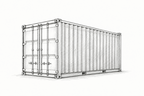
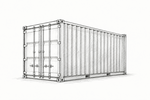
style(lab-builder): รูปในช่องพิมพ์หายตอนกดเข้าไป + ขยาย Create lab และรูปให้ใหญ่ขึ้น
ทำไม: Pete ลองแล้ว — กดเข้าไปพิมพ์รูปยังค้างบังข้อความ และ Create lab รูปเล็กไป

ทำอย่างไร:
- IllustratedTextarea ซ่อนรูปตอน focus (เดิมซ่อนเมื่อมีข้อความแล้วเท่านั้น) ขอบเป็นสีฟ้าตอน focus
- Create lab กว้าง 1000 → 1120 ตัวอักษร 13 → 14 ช่อง Description / ช่องลาก .tar สูงขึ้น รูปใหญ่ขึ้นราว 1.5 เท่า
- export รูปใหม่จากต้นฉบับที่ 2 เท่าของขนาดที่แสดงใหม่ (ไม่ขยายจากไฟล์ที่ย่อไว้แล้ว ภาพจะแตก)

diff --git a/web-portal/frontend/src/components/lab-builder/DocumentModal.tsx b/web-portal/frontend/src/components/lab-builder/DocumentModal.tsx
@@ -1,40 +1,47 @@
 import { useEffect, useState } from 'react';
 import GradientModal from './GradientModal';
 import PrimaryButton from './PrimaryButton';
-import { FileDrop, FormNote, inputBox } from './fields';
+import { FileDrop, FormNote, IconInput, inputBox } from './fields';
 import { BookIcon } from './icons';
 import { labService } from '../../services/lab';
 import type { LabSummary } from '../../services/lab';
+import { courseDocumentService } from '../../services/courseDocument';
 import { apiErrorMessage } from '../../services/labImage';
 
+// ค่าใน select ของตัวเลือก "ไม่ผูก lab" (id ของ lab เป็น uuid ไม่มีทางชน)
+const COURSE_DOC = '';
+
 /**
- * Document adding — แนบ PDF ให้ lab (เอกสารของวิชาคือเอกสารของแต่ละ lab)
- * ชื่อที่นักศึกษาเห็นในการ์ด Documents คือชื่อ lab ไฟล์ใหม่แทนไฟล์เดิมของ lab นั้น
+ * Document adding — รองรับสองแบบ (Pete ขอ)
+ * - ไม่ผูก lab: เอกสารรวมของวิชา ตั้งชื่อเองได้ (ว่าง = ชื่อไฟล์) มีกี่ไฟล์ก็ได้
+ * - ผูก lab: แนบเป็นเอกสารของ lab นั้น ชื่อที่เห็นคือชื่อ lab ไฟล์ใหม่แทนไฟล์เดิม
  */
-export default function DocumentModal({ open, onClose, onUploaded, labs }: { open: boolean; onClose: () => void; onUploaded: () => void; labs: LabSummary[] }) {
-  const [labId, setLabId] = useState('');
+export default function DocumentModal({ open, onClose, onUploaded, labs, courseId }: { open: boolean; onClose: () => void; onUploaded: () => void; labs: LabSummary[]; courseId: string }) {
+  const [labId, setLabId] = useState(COURSE_DOC);
+  const [name, setName] = useState('');
   const [file, setFile] = useState<File | null>(null);
   const [busy, setBusy] = useState(false);
   const [error, setError] = useState<string | null>(null);
 
   useEffect(() => {
     if (open) {
-      setLabId(labs[0]?.id ?? '');
+      setLabId(COURSE_DOC);
+      setName('');
       setFile(null);
       setError(null);
     }
-  }, [open, labs]);
+  }, [open]);
 
   const selected = labs.find((lab) => lab.id === labId);
 
   const approve = async () => {
-    if (!labId) return setError('เลือก lab ก่อน');
     if (!file) return setError('เลือกไฟล์ PDF ก่อน');
     if (!file.name.toLowerCase().endsWith('.pdf')) return setError('เอกสารต้องเป็นไฟล์ PDF');
     setBusy(true);
     setError(null);
     try {
-      await labService.uploadDoc(labId, file);
+      if (labId === COURSE_DOC) await courseDocumentService.upload(courseId, file, name.trim());
+      else await labService.uploadDoc(labId, file);
       onUploaded();
       onClose();
     } catch (e) {
@@ -47,11 +54,11 @@ export default function DocumentModal({ open, onClose, onUploaded, labs }: { ope
   return (
     <GradientModal open={open} onClose={busy ? () => {} : onClose} icon="/lab-builder/book.png" title="Document adding">
       <div style={{ padding: '28px 74px 36px', display: 'flex', flexDirection: 'column', gap: 6, fontSize: 13 }}>
-        <span style={{ paddingLeft: 6 }}>Lab</span>
+        <span style={{ paddingLeft: 6 }}>Attach to</span>
         <div style={{ ...inputBox, display: 'flex', alignItems: 'center', gap: 30, padding: '0 18px' }}>
           <BookIcon />
           <select value={labId} onChange={(e) => setLabId(e.target.value)} style={{ flex: 1, minWidth: 0, border: 0, outline: 'none', fontFamily: 'inherit', fontSize: 13, background: 'transparent', cursor: 'pointer' }}>
-            {labs.length === 0 && <option value="">ยังไม่มี lab — สร้าง lab ก่อน</option>}
+            <option value={COURSE_DOC}>Course document (no lab)</option>
             {labs.map((lab) => (
               <option key={lab.id} value={lab.id}>
                 Lab {lab.orderNo} : {lab.title}
@@ -59,6 +66,12 @@ export default function DocumentModal({ open, onClose, onUploaded, labs }: { ope
             ))}
           </select>
         </div>
+        {labId === COURSE_DOC && (
+          <>
+            <span style={{ paddingLeft: 6, marginTop: 14 }}>Document name</span>
+            <IconInput icon={<BookIcon />} value={name} onChange={setName} placeholder={file ? file.name.replace(/\.pdf$/i, '') : 'Document name'} />
+          </>
+        )}
         <div style={{ marginTop: 22 }}>
           <FileDrop file={file} onFile={setFile} accept="application/pdf,.pdf" image="/lab-builder/paste.png" imageWidth={72} hint="Drop PDF here" height={246} />
         </div>

diff --git a/web-portal/frontend/src/components/lab-builder/CreateLabModal.tsx b/web-portal/frontend/src/components/lab-builder/CreateLabModal.tsx
@@ -116,8 +116,8 @@ export default function CreateLabModal({ open, onClose, onCreated, courseId, cou
   };
 
   return (
-    <GradientModal open={open} onClose={busy ? () => {} : onClose} icon="/lab-builder/lab-container.png" iconWidth={46} title="Virtual Lab Builder" maxWidth={1000}>
-      <div style={{ padding: '28px 74px 48px', display: 'grid', gridTemplateColumns: 'minmax(0,1fr) minmax(0,1fr)', gap: 118, fontSize: 13 }}>
+    <GradientModal open={open} onClose={busy ? () => {} : onClose} icon="/lab-builder/lab-container.png" iconWidth={50} title="Virtual Lab Builder" maxWidth={1120}>
+      <div style={{ padding: '32px 74px 52px', display: 'grid', gridTemplateColumns: 'minmax(0,1fr) minmax(0,1fr)', gap: 96, fontSize: 14 }}>
         <div style={{ display: 'flex', flexDirection: 'column', gap: 14 }}>
           <label style={label}>
             <span style={{ paddingLeft: 6 }}>Lab name</span>
@@ -126,7 +126,7 @@ export default function CreateLabModal({ open, onClose, onCreated, courseId, cou
 
           <div style={label}>
             <span style={{ paddingLeft: 6 }}>Description</span>
-            <IllustratedTextarea value={form.description} onChange={(v) => set('description', v)} image="/lab-builder/lab-draw.png" imageWidth={70} hint="Discover something new..." height={126} hintSize={10} />
+            <IllustratedTextarea value={form.description} onChange={(v) => set('description', v)} image="/lab-builder/lab-draw.png" imageWidth={104} hint="Discover something new..." height={180} hintSize={12} />
           </div>
 
           <div style={{ display: 'grid', gridTemplateColumns: 'minmax(0,1fr) minmax(0,1fr)', gap: 16, marginTop: 6 }}>
@@ -143,8 +143,8 @@ export default function CreateLabModal({ open, onClose, onCreated, courseId, cou
 
         <div style={{ display: 'flex', flexDirection: 'column', gap: 6 }}>
           <span>Lab image</span>
-          <FileDrop file={form.image} onFile={(f) => set('image', f)} accept=".tar" image="/lab-builder/lab-port.png" imageWidth={128} imageHeight={84} hint="Placing Tar File for image builder" />
-          <p style={{ margin: '14px 0 0 4px', fontSize: 9, lineHeight: 1.45 }}>
+          <FileDrop file={form.image} onFile={(f) => set('image', f)} accept=".tar" image="/lab-builder/lab-port.png" imageWidth={210} imageHeight={138} hint="Placing Tar File for image builder" height={230} />
+          <p style={{ margin: '14px 0 0 4px', fontSize: 11, lineHeight: 1.5 }}>
             Please note that : Lab will take 1 hour to build up and organize , we'll send back status via email after anything is completed.
             The lab stays as a draft until the image passes the security scan, then publish it from Lab reviewing.
           </p>

diff --git a/web-portal/frontend/src/components/lab-builder/fields.tsx b/web-portal/frontend/src/components/lab-builder/fields.tsx
@@ -25,11 +25,12 @@ export function IconInput({ icon, value, onChange, placeholder }: { icon: ReactN
   );
 }
 
-/** Textarea that shows an illustration + hint while empty. */
+/** Textarea that shows an illustration + hint while empty — หายไปทันทีที่กดเข้าไปพิมพ์ */
 export function IllustratedTextarea({ value, onChange, image, imageWidth, hint, height = 246, hintSize = 13 }: { value: string; onChange: (v: string) => void; image: string; imageWidth: number; hint: string; height?: number; hintSize?: number }) {
+  const [focused, setFocused] = useState(false);
   return (
-    <div style={{ position: 'relative', height, border: `1px solid ${colors.inputBorder}`, borderRadius: 8, overflow: 'hidden' }}>
-      {!value && (
+    <div style={{ position: 'relative', height, border: `1px solid ${focused ? colors.primary : colors.inputBorder}`, borderRadius: 8, overflow: 'hidden' }}>
+      {!value && !focused && (
         <div style={{ position: 'absolute', inset: 0, display: 'flex', flexDirection: 'column', alignItems: 'center', justifyContent: 'center', gap: 8, pointerEvents: 'none' }}>
           <img src={image} alt="" style={{ width: imageWidth, height: 'auto' }} />
           <span style={{ fontSize: hintSize, color: colors.text }}>{hint}</span>
@@ -39,6 +40,8 @@ export function IllustratedTextarea({ value, onChange, image, imageWidth, hint, 
         aria-label={hint}
         value={value}
         onChange={(e) => onChange(e.target.value)}
+        onFocus={() => setFocused(true)}
+        onBlur={() => setFocused(false)}
         style={{ position: 'absolute', inset: 0, width: '100%', height: '100%', border: 0, outline: 'none', resize: 'none', padding: '14px 16px', fontFamily: 'inherit', fontSize: 13, lineHeight: 1.5, color: colors.text, background: 'transparent' }}
       />
     </div>
@@ -72,7 +75,7 @@ export function FileDrop({ file, onFile, accept, image, imageWidth, imageHeight,
         style={{ height, border: `1px solid ${dragging ? colors.primary : colors.inputBorder}`, borderRadius: 8, background: dragging ? '#F2FAFE' : '#fff', display: 'flex', flexDirection: 'column', alignItems: 'center', justifyContent: 'center', gap: 4, cursor: 'pointer' }}
       >
         <img src={image} alt="" style={{ width: imageWidth, height: imageHeight ?? 'auto', objectFit: 'cover' }} />
-        <span style={{ fontSize: 10 }}>{file?.name ?? hint}</span>
+        <span style={{ fontSize: 12 }}>{file?.name ?? hint}</span>
       </div>
       <input ref={ref} type="file" accept={accept} hidden onChange={(e) => onFile(e.target.files?.[0] ?? null)} />
     </>
